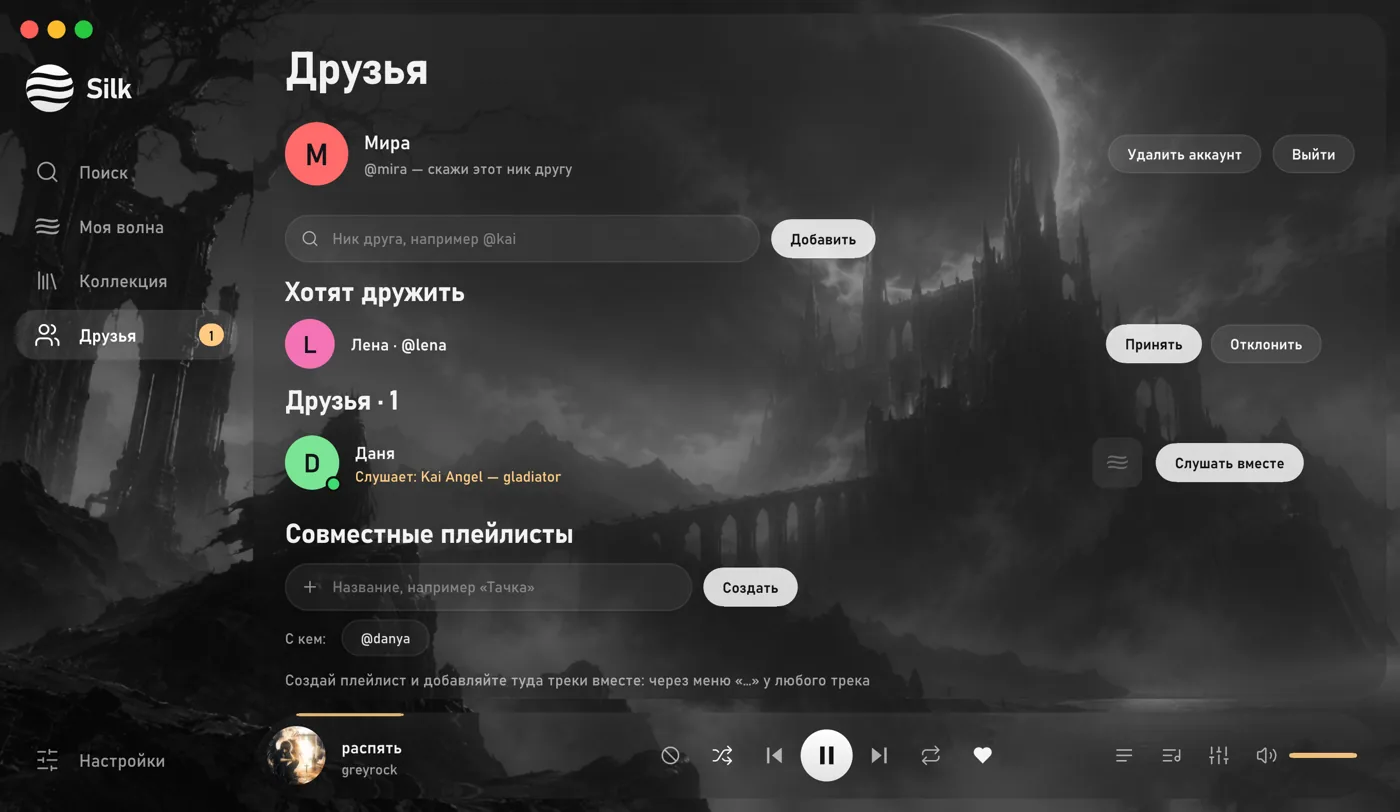
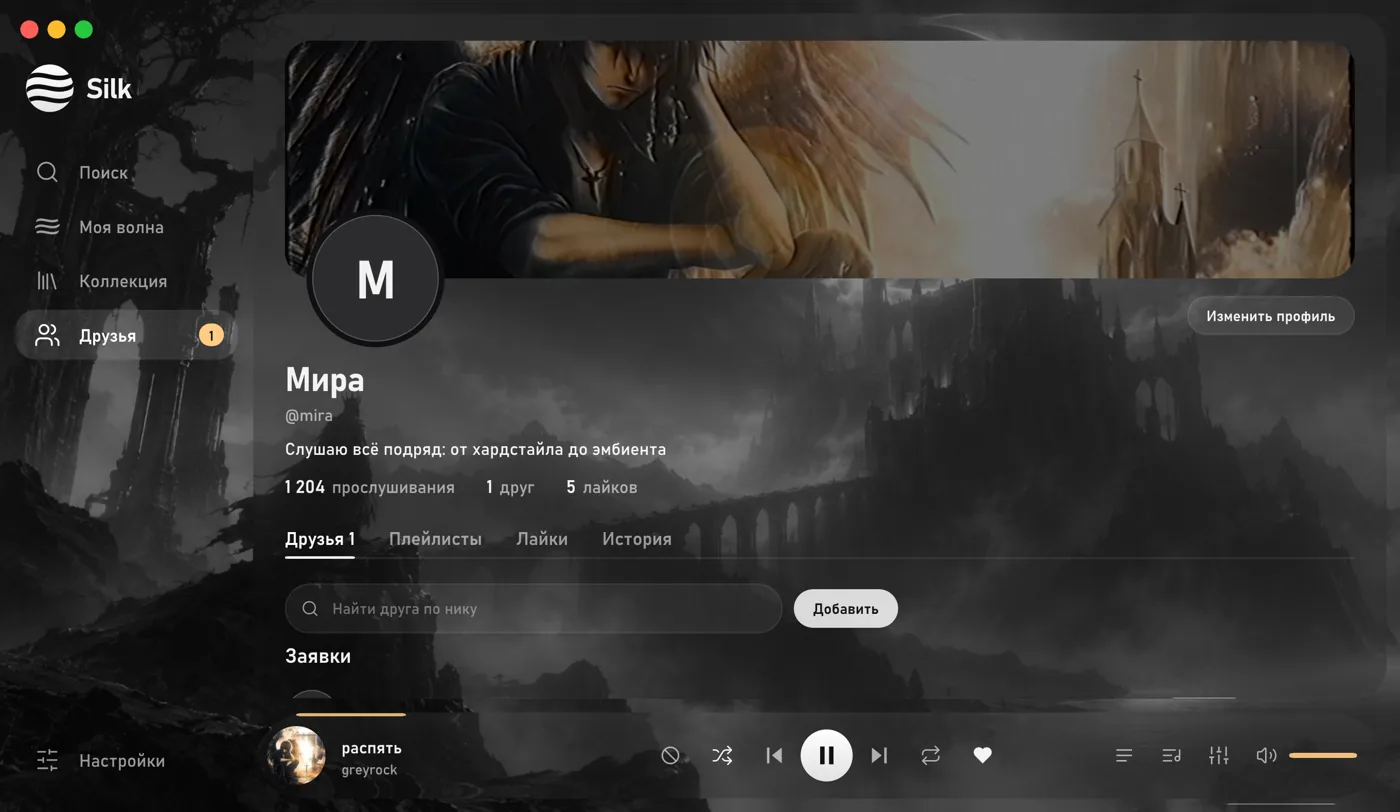
Профиль как в соцсетях: тексты о данных и новый снимок друзей

diff --git a/index.html b/index.html
@@ -33,7 +33,7 @@
   <p class="fine">Бесплатно и без рекламы. Windows 10 и 11, 26 МБ</p>
 </div></section>
 <section class="screens" id="screens" aria-label="Как выглядит Silk"><div class="wrap">
-  <div class="window" id="shot" role="tabpanel"><img src="assets/shots/wave.webp" width="1400" height="812" alt="Silk: моя волна" class="on" data-cap="Моя волна учится на лайках и дослушанных треках и не крутит одно и то же. Её можно включить по одной площадке: только Яндекс, SoundCloud или VK." decoding="async"><img src="assets/shots/lyrics.webp" width="1400" height="812" alt="Silk: текст" class="" data-cap="Текст идёт вместе с песней и подсвечивается по словам. Размер строк меняется кнопками A− и A+." decoding="async"><img src="assets/shots/search.webp" width="1400" height="812" alt="Silk: поиск" class="" data-cap="Ищи везде сразу или на одной площадке. Не помнишь название? Напиши строчку из песни." decoding="async"><img src="assets/shots/sound.webp" width="1400" height="812" alt="Silk: звук" class="" data-cap="Slowed + reverb, Nightcore, 8D, караоке без голоса, кроссфейд и эквалайзер на 10 полос." decoding="async"><img src="assets/shots/style-paper.webp" width="1400" height="812" alt="Silk: стили" class="" data-cap="Семь готовых стилей, от неона до бумаги. А можно собрать свой: любую кнопку двигаешь и меняешь как хочешь." decoding="async"><img src="assets/shots/friends.webp" width="1400" height="812" alt="Silk: друзья" class="" data-cap="Видно, что друг слушает прямо сейчас. Нажми «Слушать вместе», и у тебя заиграет тот же трек с того же места." decoding="async"></div>
+  <div class="window" id="shot" role="tabpanel"><img src="assets/shots/wave.webp" width="1400" height="812" alt="Silk: моя волна" class="on" data-cap="Моя волна учится на лайках и дослушанных треках и не крутит одно и то же. Её можно включить по одной площадке: только Яндекс, SoundCloud или VK." decoding="async"><img src="assets/shots/lyrics.webp" width="1400" height="812" alt="Silk: текст" class="" data-cap="Текст идёт вместе с песней и подсвечивается по словам. Размер строк меняется кнопками A− и A+." decoding="async"><img src="assets/shots/search.webp" width="1400" height="812" alt="Silk: поиск" class="" data-cap="Ищи везде сразу или на одной площадке. Не помнишь название? Напиши строчку из песни." decoding="async"><img src="assets/shots/sound.webp" width="1400" height="812" alt="Silk: звук" class="" data-cap="Slowed + reverb, Nightcore, 8D, караоке без голоса, кроссфейд и эквалайзер на 10 полос." decoding="async"><img src="assets/shots/style-paper.webp" width="1400" height="812" alt="Silk: стили" class="" data-cap="Семь готовых стилей, от неона до бумаги. А можно собрать свой: любую кнопку двигаешь и меняешь как хочешь." decoding="async"><img src="assets/shots/friends.webp" width="1400" height="812" alt="Silk: друзья" class="" data-cap="Профиль как в соцсетях: фото, обложка, пара слов о себе. Видно, что друг слушает прямо сейчас, а «Слушать вместе» включает тот же трек с того же места." decoding="async"></div>
   <div class="tabs" role="tablist" aria-label="Экраны Silk"><button role="tab" aria-selected="true" aria-controls="shot" data-i="0">Моя волна</button><button role="tab" aria-selected="false" aria-controls="shot" data-i="1" tabindex="-1">Текст</button><button role="tab" aria-selected="false" aria-controls="shot" data-i="2" tabindex="-1">Поиск</button><button role="tab" aria-selected="false" aria-controls="shot" data-i="3" tabindex="-1">Звук</button><button role="tab" aria-selected="false" aria-controls="shot" data-i="4" tabindex="-1">Стили</button><button role="tab" aria-selected="false" aria-controls="shot" data-i="5" tabindex="-1">Друзья</button></div>
   <p class="caption" id="cap" aria-live="polite">Моя волна учится на лайках и дослушанных треках и не крутит одно и то же. Её можно включить по одной площадке: только Яндекс, SoundCloud или VK.</p>
 </div></section>
@@ -44,7 +44,7 @@
 </div></section>
 <section class="section" id="faq"><div class="wrap">
   <h2>Вопросы</h2>
-  <div class="faq"><details><summary>Сколько стоит Silk?</summary><p>Нисколько. Silk бесплатный и без рекламы.</p></details><details><summary>Windows пишет «Система Windows защитила ваш компьютер». Что делать?</summary><p>Установщик пока не подписан сертификатом, поэтому Windows его не узнаёт. Нажми «Подробнее», потом «Выполнить в любом случае». Прав администратора установка не просит.</p></details><details><summary>Нужен ли аккаунт?</summary><p>Чтобы слушать музыку, не нужен. Аккаунт нужен только для друзей: войти можно через Google, GitHub, Discord или почту.</p></details><details><summary>Откуда берётся музыка?</summary><p>Silk ищет и проигрывает треки с площадок: YouTube, SoundCloud, Spotify, Яндекс Музыка, VK и других. Для Яндекс Музыки и VK нужен твой аккаунт на этих сервисах.</p></details><details><summary>Что Silk знает обо мне?</summary><p>Без аккаунта ничего: библиотека, настройки и история лежат только на твоём компьютере. Что хранится, если войти в аккаунт, написано на странице <a href="privacy.html">Конфиденциальность</a>.</p></details><details><summary>Как удалить аккаунт?</summary><p>В Silk открой «Друзья» и нажми «Удалить аккаунт», затем ещё раз для подтверждения. Профиль, друзья, лайки, история и твои плейлисты сразу стираются с сервера.</p></details><details><summary>Есть ли версия для iPhone?</summary><p>Пока только Windows 10 и 11. Версия для iPhone в работе.</p></details></div>
+  <div class="faq"><details><summary>Сколько стоит Silk?</summary><p>Нисколько. Silk бесплатный и без рекламы.</p></details><details><summary>Windows пишет «Система Windows защитила ваш компьютер». Что делать?</summary><p>Установщик пока не подписан сертификатом, поэтому Windows его не узнаёт. Нажми «Подробнее», потом «Выполнить в любом случае». Прав администратора установка не просит.</p></details><details><summary>Нужен ли аккаунт?</summary><p>Чтобы слушать музыку, не нужен. Аккаунт нужен только для друзей: войти можно через Google, GitHub, Discord или почту.</p></details><details><summary>Откуда берётся музыка?</summary><p>Silk ищет и проигрывает треки с площадок: YouTube, SoundCloud, Spotify, Яндекс Музыка, VK и других. Для Яндекс Музыки и VK нужен твой аккаунт на этих сервисах.</p></details><details><summary>Что Silk знает обо мне?</summary><p>Без аккаунта ничего: библиотека, настройки и история лежат только на твоём компьютере. Что хранится, если войти в аккаунт, написано на странице <a href="privacy.html">Конфиденциальность</a>.</p></details><details><summary>Как удалить аккаунт?</summary><p>В Silk открой «Друзья», нажми «Изменить профиль», затем «Удалить аккаунт» и ещё раз для подтверждения. Профиль, друзья, лайки, история и твои плейлисты сразу стираются с сервера.</p></details><details><summary>Есть ли версия для iPhone?</summary><p>Пока только Windows 10 и 11. Версия для iPhone в работе.</p></details></div>
 </div></section>
 <section class="end"><div class="wrap">
   <h2>Позови друзей и слушайте вместе</h2>

diff --git a/privacy.html b/privacy.html
@@ -36,7 +36,7 @@
   <thead><tr><th>Что</th><th>Зачем</th><th>Кто видит</th></tr></thead>
   <tbody>
     <tr><td>Почта</td><td>Вход в аккаунт</td><td>Никто, кроме тебя</td></tr>
-    <tr><td>Ник, имя и аватар</td><td>Чтобы друзья нашли тебя</td><td>Все, кто вошёл в Silk</td></tr>
+    <tr><td>Профиль: ник, имя, фото, обложка, «о себе» и сколько треков ты прослушал</td><td>Чтобы друзья нашли и узнали тебя</td><td>Все, кто вошёл в Silk</td></tr>
     <tr><td>Друзья и заявки</td><td>Список друзей</td><td>Ты и тот, с кем дружишь</td></tr>
     <tr><td>Что играет сейчас</td><td>Статус для друзей и «Слушать вместе»</td><td>Ты и друзья</td></tr>
     <tr><td>Последние 100 прослушиваний</td><td>История на странице друга</td><td>Ты и друзья</td></tr>
@@ -44,6 +44,7 @@
     <tr><td>Совместные плейлисты</td><td>Собирать треки вместе</td><td>Только участники плейлиста</td></tr>
   </tbody>
 </table>
+<p>Фото и обложку профиля Silk сжимает и кладёт в хранилище Supabase. Их может открыть любой, у кого есть ссылка, поэтому не ставь туда то, что не показал бы всем.</p>
 <p>Всё это лежит в базе Supabase на серверах в Европе. Доступ к данным ограничен правилами базы: чужой человек не может прочитать твоих друзей, историю или лайки. Пароль от почтового входа хранится только в виде хеша.</p>
 
 <h2>Вход через Google, GitHub и Discord</h2>
@@ -52,7 +53,7 @@
 
 <h2>Как удалить данные</h2>
 <ul>
-  <li><b>Аккаунт целиком.</b> В Silk открой «Друзья» → «Удалить аккаунт» и подтверди. Сразу стираются почта, профиль, друзья, лайки, история и твои совместные плейлисты. Из плейлистов друзей пропадает только твоё участие, треки, которые ты туда добавил, остаются у них.</li>
+  <li><b>Аккаунт целиком.</b> В Silk открой «Друзья» → «Изменить профиль» → «Удалить аккаунт» и подтверди. Сразу стираются почта, профиль с фото и обложкой, друзья, лайки, история и твои совместные плейлисты. Из плейлистов друзей пропадает только твоё участие, треки, которые ты туда добавил, остаются у них.</li>
   <li><b>Данные на компьютере.</b> Удали папку <code>%LOCALAPPDATA%\Silk</code>.</li>
   <li><b>Выйти, не удаляя.</b> «Друзья» → «Выйти».</li>
 </ul>

diff --git a/terms.html b/terms.html
@@ -34,7 +34,8 @@
   <li>Не выдавай себя за другого человека и не бери чужие ники ради обмана.</li>
   <li>Не используй Silk для спама, травли и всего, что запрещено законом.</li>
   <li>Аккаунт, который нарушает эти правила, может быть удалён.</li>
-  <li>Свой аккаунт ты можешь удалить сам в любой момент: «Друзья» → «Удалить аккаунт».</li>
+  <li>Не ставь в фото и обложку профиля чужое, запрещённое или то, что задевает других.</li>
+  <li>Свой аккаунт ты можешь удалить сам в любой момент: «Друзья» → «Изменить профиль» → «Удалить аккаунт».</li>
 </ul>
 
 <h2>Как есть</h2>
